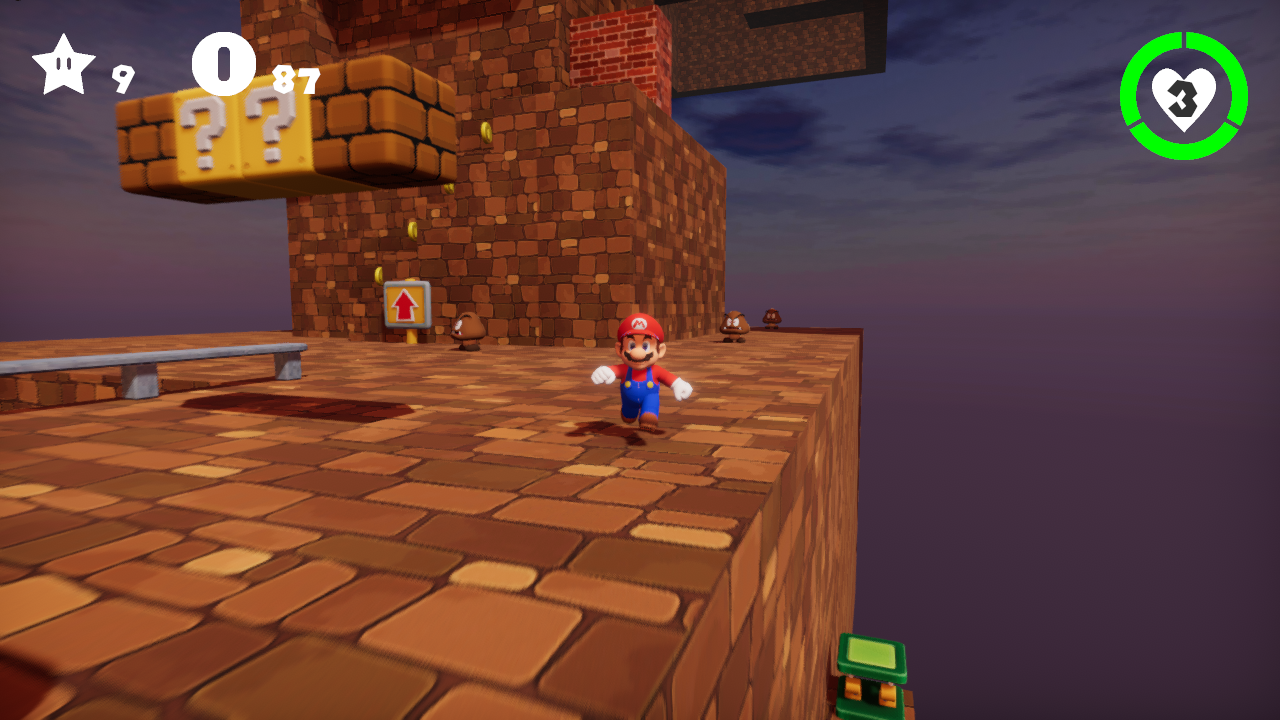
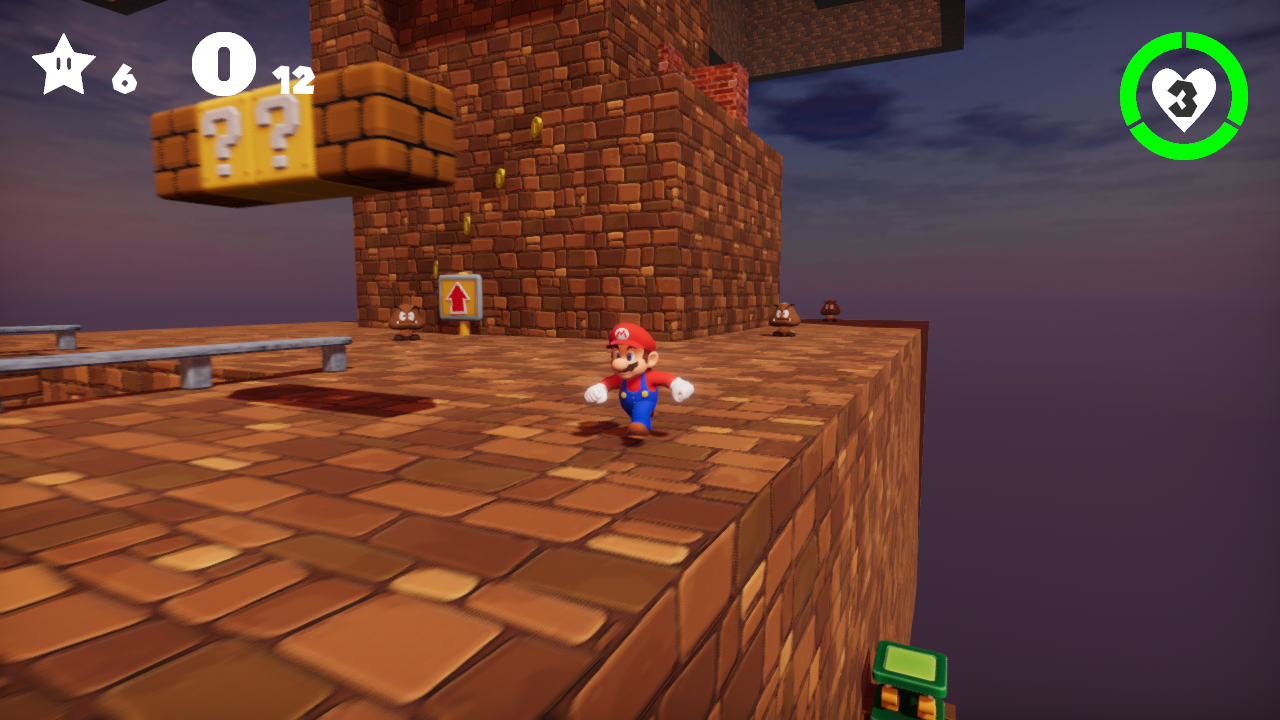
Update

diff --git a/wiki/Super Mario Prism.html b/wiki/Super Mario Prism.html
@@ -96,6 +96,7 @@
 					<li>Super Mario Prism is Hello Fangaming's first 3D Mario game, and first fangame made in Unity!</li>
 					<li>The game contains four painting worlds, with plenty of power stars to collect.</li>
 					<li>Shortly after the game's release, the version 1.0.1 update of Super Mario Prism was released. This update tweaked the physics, sped up some animations, fixed some bugs, disabled Unity's axis smoothing on keyboard controls, and disabled more special effects on low quality settings.</li>
+					<li>After another week passed, the version 1.0.2 update of Super Mario Prism was released. This update tweaked the physics again, fixed more bugs, and added some normal maps that were missing.</li>
 				</ul>
 			</div>
 		</div>

diff --git a/index.html b/index.html
@@ -508,6 +508,7 @@ header.carousel .fill {
 						<h4><i class="fa fa-bullhorn"></i> Latest News</h4>
 					</div>
 					<div class="panel-body">
+						<p><strong>March 24, 2019:</strong> Super Mario Prism 1.0.2 bugfix update released!</p>
 						<p><strong>March 17, 2019:</strong> Super Mario Prism 1.0.1 bugfix update released!</p>
 						<p><strong>March 15, 2019:</strong> Super Mario Prism is now available for download!</p>
 						<p><strong>February 1, 2019:</strong> Mario Editor 1.3 and Shroom Editor 1.1 updates released!</p>
